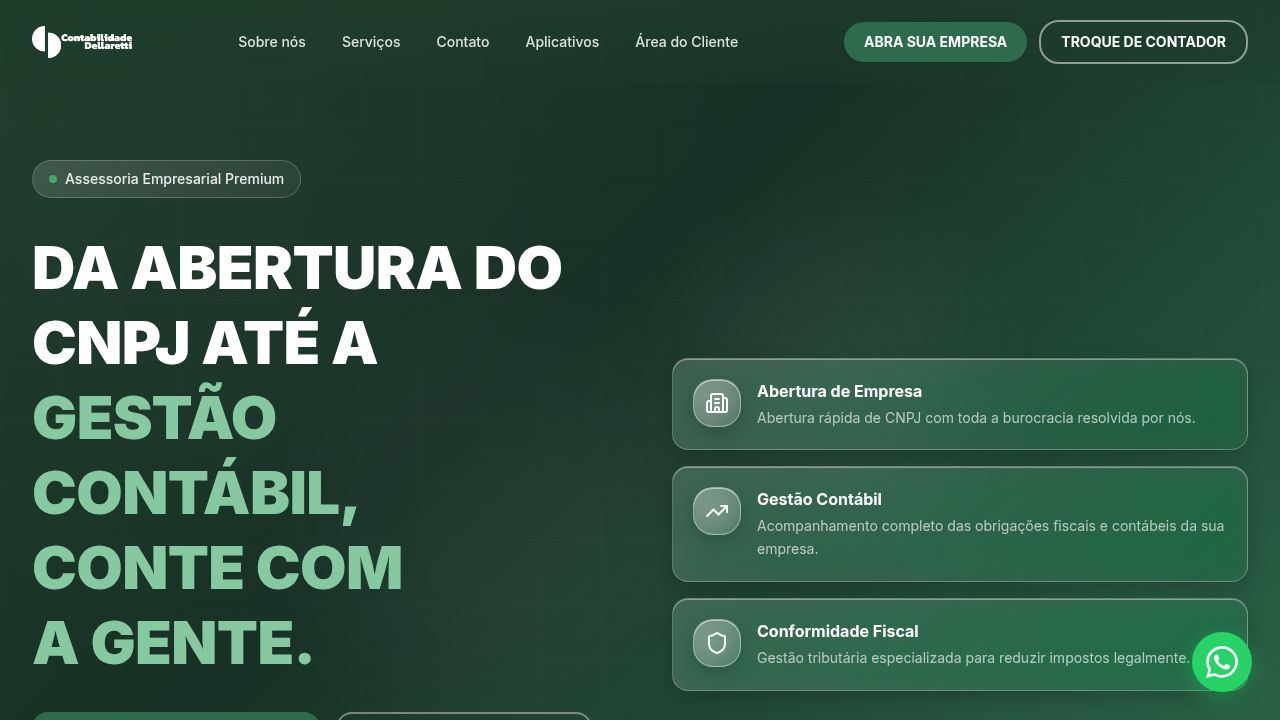
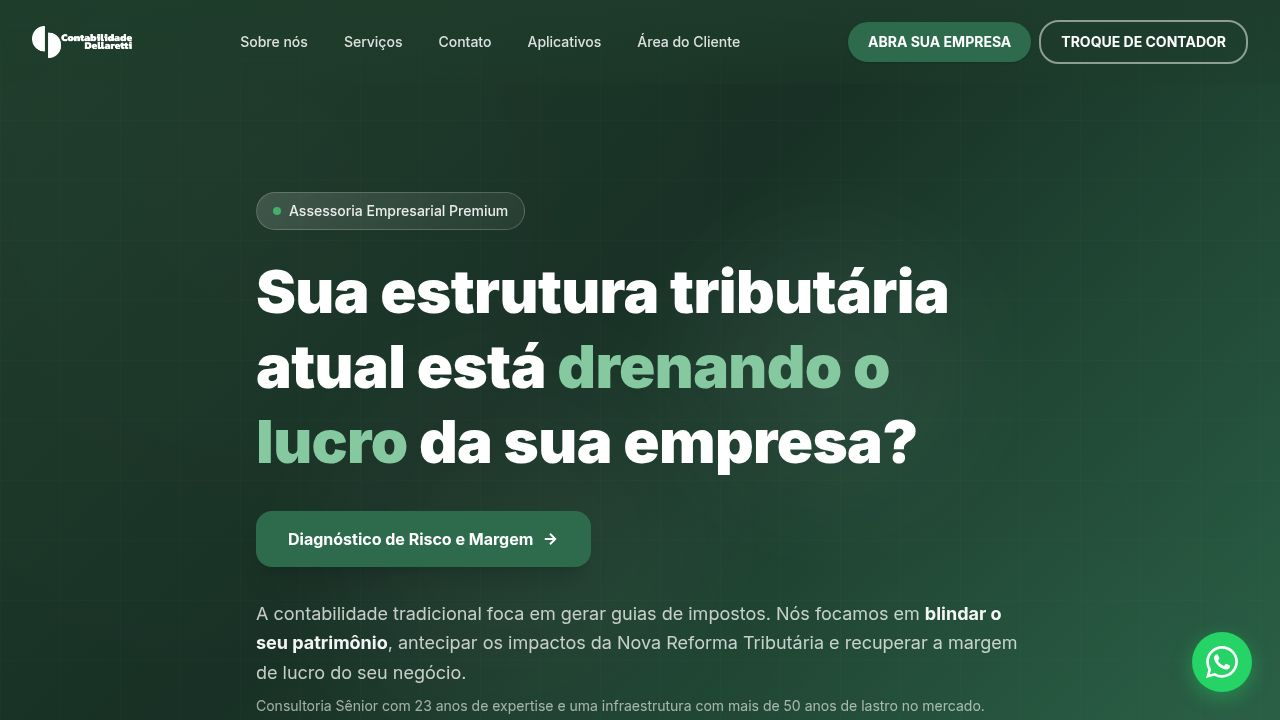
Adapt the admin panel to display all contact and payment information correctly
Update the AdminPage component to normalize API responses, converting snake_case fields (e.g., `created_at`, `ramo_descricao`) to camelCase (e.g., `createdAt`, `ramoDescricao`) to match frontend expectations. This ensures all data is displayed properly, regardless of the API's naming convention.

Replit-Commit-Author: Agent
Replit-Commit-Session-Id: 8eff49e7-ac0f-4515-b1f9-94c343fad722
Replit-Commit-Checkpoint-Type: full_checkpoint
Replit-Commit-Event-Id: 6bade78f-0b33-497c-a424-ffb248ac8480
Replit-Commit-Screenshot-Url: https://storage.googleapis.com/screenshot-production-us-central1/4e5e74cc-54e1-497e-a228-28b62e557afd/8eff49e7-ac0f-4515-b1f9-94c343fad722/NrDLNBA
Replit-Helium-Checkpoint-Created: true

diff --git a/artifacts/dellaretti/src/pages/AdminPage.tsx b/artifacts/dellaretti/src/pages/AdminPage.tsx
@@ -88,6 +88,59 @@ export default function AdminPage() {
   const [search, setSearch] = useState("");
   const [filter, setFilter] = useState<"todos" | "Abrir Empresa" | "Trocar de Contador">("todos");
 
+  function normalizeContact(c: any): ContactMsg {
+    return {
+      id: c.id,
+      nome: c.nome,
+      email: c.email,
+      telefone: c.telefone,
+      ramo: c.ramo,
+      ramoDescricao: c.ramoDescricao ?? c.ramo_descricao,
+      faturamentoAnual: c.faturamentoAnual ?? c.faturamento_anual,
+      regimeTributario: c.regimeTributario ?? c.regime_tributario,
+      assunto: c.assunto,
+      mensagem: c.mensagem,
+      createdAt: c.createdAt ?? c.created_at,
+    };
+  }
+
+  function normalizeLead(l: any): Lead {
+    return {
+      id: l.id,
+      tipo: l.tipo,
+      estado: l.estado,
+      nome: l.nome,
+      telefone: l.telefone,
+      email: l.email,
+      ramo: l.ramo,
+      cpf: l.cpf,
+      nomeEmpresa: l.nomeEmpresa ?? l.nome_empresa,
+      previsaoFaturamento: l.previsaoFaturamento ?? l.previsao_faturamento,
+      funcionarios: l.funcionarios,
+      faturamentoAnual: l.faturamentoAnual ?? l.faturamento_anual,
+      regimeTributario: l.regimeTributario ?? l.regime_tributario,
+      tempoEmpresa: l.tempoEmpresa ?? l.tempo_empresa,
+      createdAt: l.createdAt ?? l.created_at,
+    };
+  }
+
+  function normalizePayment(p: any): Payment {
+    return {
+      id: p.id,
+      createdAt: p.createdAt ?? p.created_at,
+      method: p.method,
+      status: p.status,
+      planId: p.planId ?? p.plan_id,
+      planName: p.planName ?? p.plan_name,
+      planPrice: p.planPrice ?? p.plan_price ?? 0,
+      customerName: p.customerName ?? p.customer_name,
+      customerEmail: p.customerEmail ?? p.customer_email,
+      customerPhone: p.customerPhone ?? p.customer_phone,
+      customerCpf: p.customerCpf ?? p.customer_cpf,
+      pagbankId: p.pagbankId ?? p.pagbank_id,
+    };
+  }
+
   async function fetchAll() {
     setLoading(true);
     setError("");
@@ -99,14 +152,14 @@ export default function AdminPage() {
       ]);
       if (!leadsRes.ok) throw new Error("Unauthorized");
       const ld = await leadsRes.json();
-      setLeads(ld.leads || []);
+      setLeads((ld.leads || []).map(normalizeLead));
       if (paysRes.ok) {
         const pd = await paysRes.json();
-        setPayments(pd.payments || []);
+        setPayments((pd.payments || []).map(normalizePayment));
       }
       if (contactsRes.ok) {
         const cd = await contactsRes.json();
-        setContacts(cd.contacts || []);
+        setContacts((cd.contacts || []).map(normalizeContact));
       }
     } catch {
       setError("Erro ao carregar dados.");